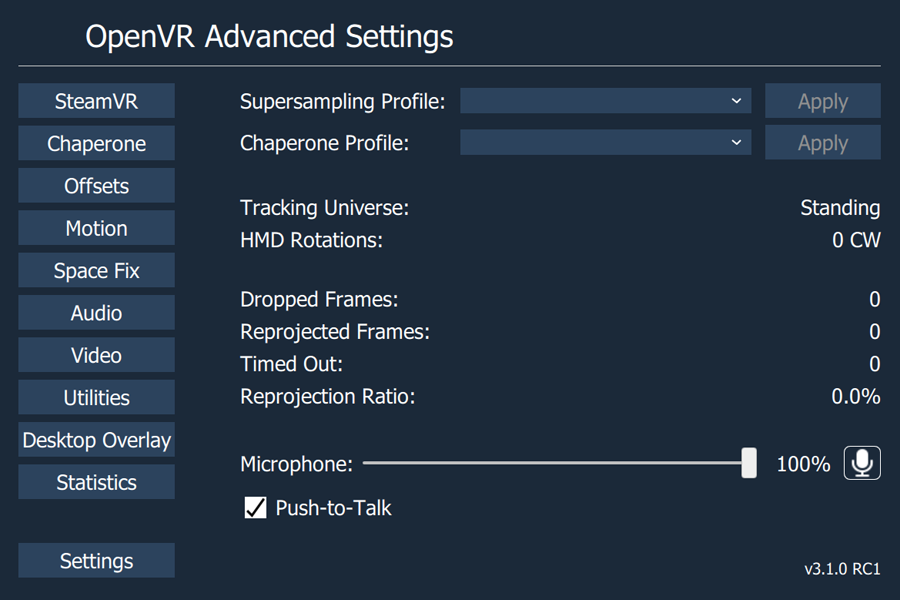
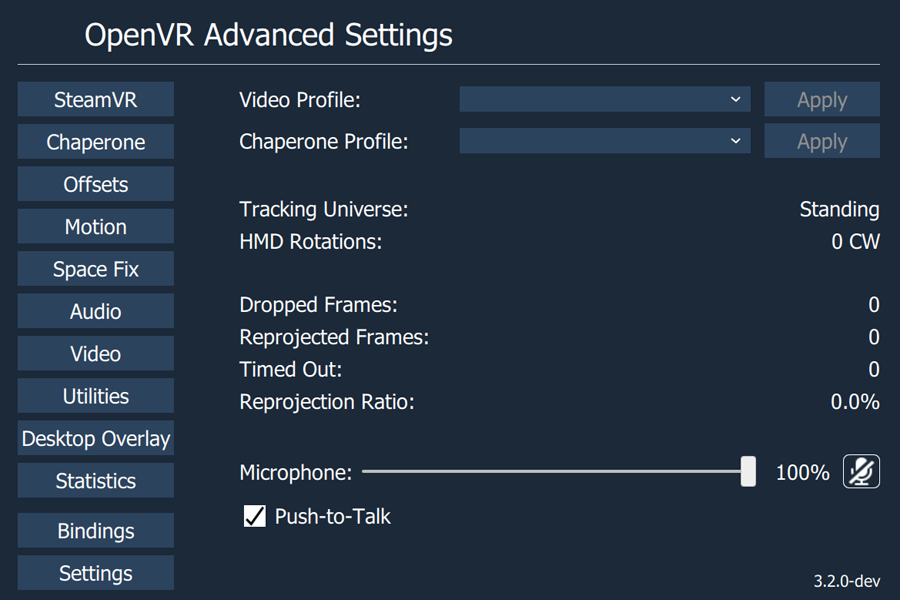
Update Docs for bindings page and ini file, fix QML log spam

diff --git a/src/res/qml/BindingsPage.qml b/src/res/qml/BindingsPage.qml
@@ -12,7 +12,8 @@ MyStackViewPage {
             source: "qrc:/bindings/bindings"
             sourceSize.width: 1120
             sourceSize.height: 659
-            anchors.fill: parent
+            Layout.fillHeight: true
+            Layout.fillWidth: true
         }
     }
 }

diff --git a/Readme.md b/Readme.md
@@ -27,6 +27,7 @@ Adds an overlay to the OpenVR dashboard that allows access to advanced settings 
     + [Other Controllers](#other-controllers)
   * [SteamVR Input Guide](#steamvr-input-guide)
   * [Command Line Arguments](#command-line-arguments)
+  * [INI File Options](#ini-file-options)
   * [Preview builds](#preview-builds)
 - [Documentation](#documentation)
   * [Top Page](#top-page)
@@ -41,6 +42,7 @@ Adds an overlay to the OpenVR dashboard that allows access to advanced settings 
   * [- Utilities Page](#--utilities-page)
   * [- Desktop Overlay Page](#--desktop-overlay-page)
   * [- Statistics Page](#--statistics-page)
+  * [- Bindings Page](#--bindings-page)
   * [- Settings Page](#--settings-page)
 - [How to Compile](#how-to-compile)
   * [Building on Windows](#building-on-windows)
@@ -217,6 +219,22 @@ The application (`AdvancedSettings.exe`) can be run with the following optional 
 
 `"--force-remove-manifest"`: Force uninstalls the `.vrmanifest`. This should be done every time the application is uninstalled. On Windows it is automatically done by the uninstaller. The program will exit early when this flag is set.
 
+## INI File Options
+
+There are some features that can only be enabled by directly specifying them in the .ini file. On windows the .ini file can be found at `Users\username\AppData\Roaming\AdvancedSettings-Team\OpenVRAdvancedSettings.ini`.
+
+When adding options to the .ini file, they must be added under the correct section to function.
+
+Currently the follow ini-file-only settings exist:
+
+Under `[playspaceSettings]` adding `showLogMatricesButton=true` will enable a button in the Offsets Tab that when pressed will write a section to the log file containing the current pose matrix data for tracked devices and universe settings.
+
+Also under `[playspaceSettings]` adding `simpleRecenter=true` will disable a workaround that allows seated recenter to function on non-lighthouse devices. The workaround instantly applies a second seated recenter whenever a seated recenter is executed. Because simpleRecenter=true will break non-lighthouse seated mode, and true/false behavior is indistinguishable on lighthouse devices, usage of simpleRecenter=true is not recommended.
+
+Under `[utilitiesSettings]` adding `vrcDebug=true` will enable some buttons in the Utilities Tab to toggle debug panels in VRChat.
+
+Under `[applicationSettings]` adding `enableDebug=true` will show a "Debug State" text box in the Settings Tab. Changing the debug state number may be used for in-dev branch builds. At this time, it doesn't do anything on the master build.
+
 ## Preview builds
 
 If you want to try latest and greatest unreleased features, you can download the latest from the CI (Continuous Integration) server for [Windows](https://ci.appveyor.com/project/icewind1991/openvr-advancedsettings/branch/master). The Linux CI does not provide binary artifacts.
@@ -378,6 +396,12 @@ Allows users to temporarily move and rotate the center of the playspace. This al
 - **Reprojected Frames**: Number of frames reprojected in the currently running application.
 - **Timed Out**: Number of times the currently running application timed out.
 - **Reprojection Ratio**: Ratio of presented frames to reprojected frames.
+
+## - Bindings Page
+
+<img src="docs/screenshots/BindingsPage.png" width="600" alt="Bindings Page">
+
+- **Bindings Guide**: Shows users how to access the SteamVR input bindings configuration for Advanced Settings. Unfortunately we can't provide a button to directly open this, so users must navigate there themselves. The sole purpose of this page is to make the navigation to the actual bindings config more obvious for users who missed the instruction in this readme (This was a very common support issue). The intended reading of this image is: Click on the SteamVR Settings dash button, then click on "Controller Settings", then click on "Show More Applications" then find "Advanced Settings" by scrolling to the bottom, and click on it.
 
 ## - Settings Page
 
